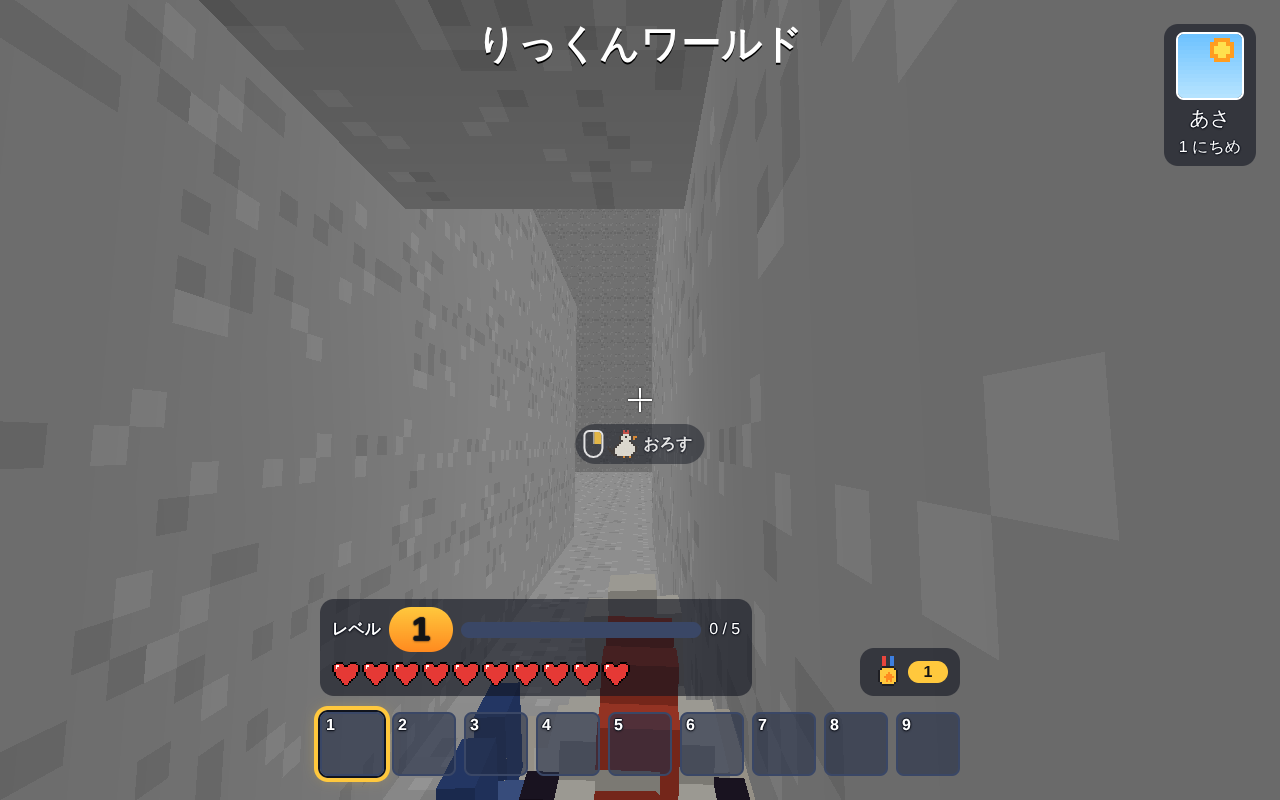
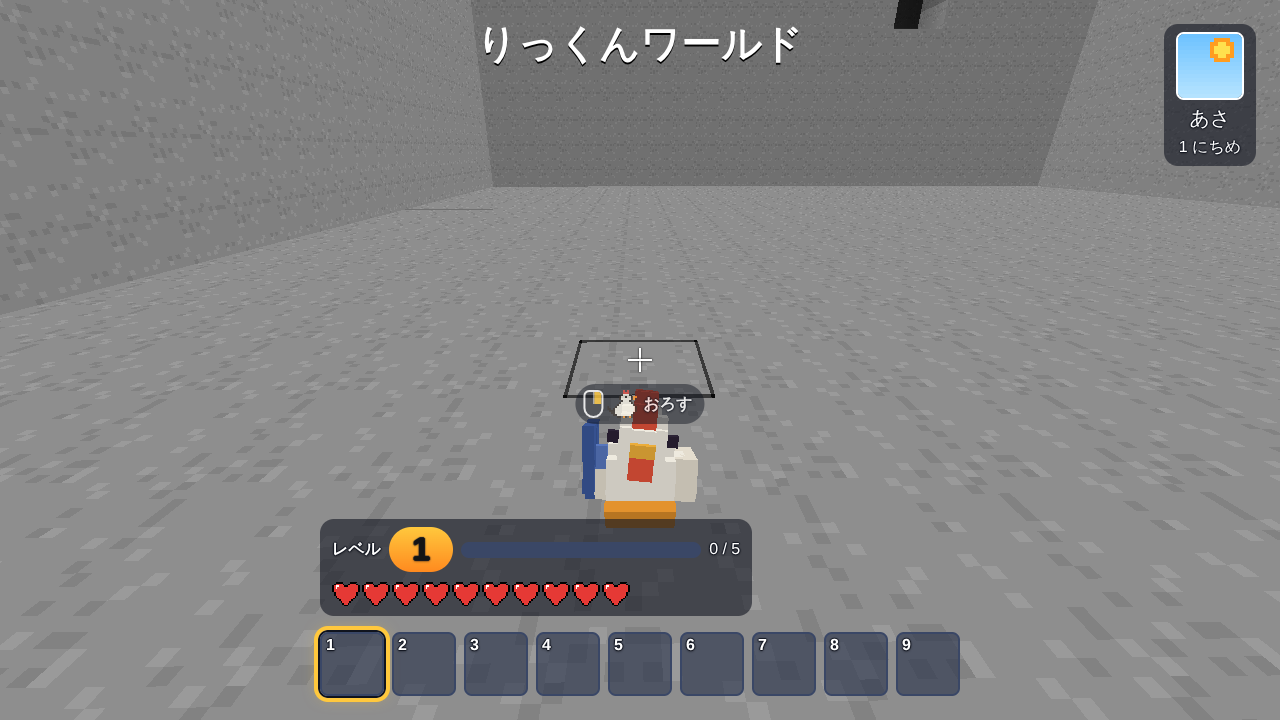
LIVE-1 版3.2: だっこ の 見え方 を 直す（1人称は ステータス板 の 上・だっこ中 は 左の 案内 なし・3人称は 横・上 に 出す）
Claude-Session: https://claude.ai/code/session_01VZt9Ej7aRghosAFkVdwAwt

diff --git a/src/animals/models/AnimalRenderer.ts b/src/animals/models/AnimalRenderer.ts
@@ -243,12 +243,16 @@ export const CARRY = {
   /** にわとり の 高さ（ブロック。コーム まで） */
   height: 0.8,
   /** 1 人称: カメラ から の 前 の 距離 */
-  front: 0.75,
+  front: 1.2,
   /** 1 人称: にわとり の 上の はし が 来る 画面 の 高さ（ndc。−1 = 下の はし。−0.5 = 下 25% の さかい） */
-  topNdc: -0.56,
+  topNdc: -0.1,
+  /** 1 人称: だっこ中 の 大きさ（ステータス板 の 上 に おさまる ように 小さめ） */
+  firstScale: 0.45,
   /** 3 人称: 胸 の 高さ・前 への 出し */
-  chestY: 0.7,
-  chestFront: 0.5,
+  chestY: 1.0,
+  chestFront: 0.3,
+  /** 3 人称: カメラ から 見て 右 へ（プレイヤー の かげ に ならない） */
+  chestSide: 0.8,
   /** プレイヤー の 目 の 高さ（足もと から） */
   eyeY: 1.6,
   /** カメラ が この 距離 より 近ければ 1 人称（`DOLL_HIDE_DISTANCE`） */
@@ -264,6 +268,8 @@ export interface CarryInfo {
   z: number;
   /** 上の はし の 画面 の 高さ（ndc。−1 = 下の はし） */
   topNdcY: number;
+  /** 下の はし の 画面 の 高さ（ndc） */
+  bottomNdcY: number;
   /** まん中 の 画面 の よこ（ndc） */
   centerNdcX: number;
   /** にわとり の 前（−z）と カメラ の ほう の 向きの 内積（1 = まっすぐ カメラ を 向く） */
@@ -476,12 +482,12 @@ export class AnimalRenderer {
       const d = Math.hypot(cam.x - feet.x, cam.y - (feet.y + CARRY.eyeY), cam.z - feet.z);
       first = d < CARRY.firstPersonDist;
     }
-    e.root.scale.setScalar(CARRY.scale);
+    e.root.scale.setScalar(first ? CARRY.firstScale : CARRY.scale);
     if (first) {
       const fov = camera instanceof THREE.PerspectiveCamera ? camera.fov : 75;
       const tanHalf = Math.tan((fov * D) / 2);
       const topY = CARRY.topNdc * CARRY.front * tanHalf;
-      this.v2.set(0, topY - CARRY.height * CARRY.scale, -CARRY.front).applyMatrix4(camera.matrixWorld);
+      this.v2.set(0, topY - CARRY.height * CARRY.firstScale, -CARRY.front).applyMatrix4(camera.matrixWorld);
       e.root.position.copy(this.v2);
       camera.getWorldQuaternion(this.tmpQ);
       e.root.quaternion.copy(this.tmpQ).multiply(this.flipY); // 顔（−z）が カメラ の ほう
@@ -496,8 +502,9 @@ export class AnimalRenderer {
         fx /= len;
         fz /= len;
       }
-      const px = feet!.x + fx * CARRY.chestFront;
-      const pz = feet!.z + fz * CARRY.chestFront;
+      // カメラ から 見て 右（fx,fz を 左 へ 90 度 まわした むき の 反対）
+      const px = feet!.x + fx * CARRY.chestFront - fz * CARRY.chestSide;
+      const pz = feet!.z + fz * CARRY.chestFront + fx * CARRY.chestSide;
       e.root.position.set(px, feet!.y + CARRY.chestY, pz);
       e.root.rotation.set(0, Math.atan2(-(cam.x - px), -(cam.z - pz)), 0); // 顔 が カメラ の ほう
     }
@@ -506,10 +513,12 @@ export class AnimalRenderer {
 
   private measureCarry(e: Entry, camera: THREE.Camera): void {
     const pos = e.root.position;
-    const h = CARRY.height * CARRY.scale;
+    const h = CARRY.height * e.root.scale.y;
     const camPos = camera.getWorldPosition(this.v1);
     this.v2.set(0, h, 0).applyMatrix4(e.root.matrixWorld).project(camera);
     const topNdcY = this.v2.y;
+    this.v2.set(0, 0, 0).applyMatrix4(e.root.matrixWorld).project(camera);
+    const bottomNdcY = this.v2.y;
     this.v2.set(0, h / 2, 0).applyMatrix4(e.root.matrixWorld).project(camera);
     const centerNdcX = this.v2.x;
     // 前（−z）の 向き と カメラ への 向き
@@ -519,7 +528,7 @@ export class AnimalRenderer {
       const feet = this.o.player!();
       return !feet || Math.hypot(camPos.x - feet.x, camPos.y - (feet.y + CARRY.eyeY), camPos.z - feet.z) < CARRY.firstPersonDist;
     })() : true;
-    this.carry = { firstPerson, x: pos.x, y: pos.y, z: pos.z, topNdcY, centerNdcX, faceToCamera: this.v2.dot(this.v3) };
+    this.carry = { firstPerson, x: pos.x, y: pos.y, z: pos.z, topNdcY, bottomNdcY, centerNdcX, faceToCamera: this.v2.dot(this.v3) };
   }
 
   /** だっこ して いる にわとり の 置き場所（なければ null。テスト・UI 検査用） */

diff --git a/src/animals/models/AnimalRendererV32.test.ts b/src/animals/models/AnimalRendererV32.test.ts
@@ -128,8 +128,10 @@ describe('AC28 だっこ の 形（1 人称）', () => {
     const c = r.carryInfo();
     expect(c).not.toBeNull();
     expect(c!.firstPerson).toBe(true);
-    expect(c!.topNdcY).toBeLessThanOrEqual(-0.5);
-    expect(c!.topNdcY).toBeGreaterThan(-1);
+    // 3.2: ステータス板（上の はし ndc −0.4975）より 上に 出す（顔 が 見える）。照準（0）には かぶらない
+    expect(c!.topNdcY).toBeLessThanOrEqual(-0.08);
+    expect(c!.topNdcY).toBeGreaterThan(-0.4);
+    expect(c!.bottomNdcY).toBeGreaterThanOrEqual(-0.5);
     expect(Math.abs(c!.centerNdcX)).toBeLessThan(0.1);
     // 照準から 40px（1280×800 で ndc 0.0625・0.1）より 遠い: 上の はしが 下 25% より 下
     expect(c!.faceToCamera).toBeGreaterThan(0.7); // にわとりの 前（−z）と カメラへ の 向きの 内積
@@ -155,6 +157,14 @@ describe('AC28 だっこ の 形（1 人称）', () => {
     expect(c.y).toBeGreaterThan(9.3);
     expect(c.y).toBeLessThan(10.2);
     expect(Math.hypot(c.x, c.z)).toBeLessThan(1);
+  });
+  it('3 人称: プレイヤー の かげ に ならない（カメラ から 見て 横 ・ 上 に 出る）', () => {
+    const { r, cam } = setup({ player: () => ({ x: 0, y: 9, z: 0 }) });
+    r.update([carriedView({ z: 0 })], cam);
+    const c = r.carryInfo()!;
+    // カメラ（0, ?, 6 あたり）から プレイヤー を 見た とき、にわとり が プレイヤー（ndc x 0）から はなれて 見える
+    expect(Math.abs(c.centerNdcX)).toBeGreaterThan(0.08);
+    expect(c.y).toBeGreaterThan(9.8);
   });
   it('おろす と ふつう の 大きさ・かげ が もどる', () => {
     const { fx, r, cam } = setup({ player: () => ({ x: 0, y: 9, z: 6 }) });

diff --git a/src/main.ts b/src/main.ts
@@ -1655,7 +1655,7 @@ game.onUpdate((dt) => {
   // 持ち物・メニューを開いている間は 名前を出さない
   yokaiNameplates.update(screen.mode() === 'play' ? yokaiM.nameplates(plateBuf) : NO_PLATES, game.camera);
   staggerIcons.update(yokaiM.staggerIcons(stagIconBuf), game.camera, screen.mode() === 'play');
-  actionHint.update(hintVisible() ? actionHintLines(dig.previewRightClick(), dig.previewLeftClick(), { carryProgress: dig.carryProgress(), held: tools.current().item, heldIsPickaxe: tools.current().kind === 'pickaxe', heldIsBlade: tools.current().kind === 'blade' }) : {});
+  actionHint.update(hintVisible() ? actionHintLines(dig.previewRightClick(), dig.previewLeftClick(), { carryProgress: dig.carryProgress(), carrying: animals.carrying() !== null, held: tools.current().item, heldIsPickaxe: tools.current().kind === 'pickaxe', heldIsBlade: tools.current().kind === 'blade' }) : {});
   farmHint.step();
   {
     // 農業の合図: 出ていない状態から 出たとき 1 件（見た目の文は ふりがなを 読みに直す）

diff --git a/src/ui/actionHintModel.ts b/src/ui/actionHintModel.ts
@@ -27,6 +27,8 @@ export interface ActionHintCtx {
   heldIsBlade: boolean;
   /** 版 3.2: `DigSystem.carryProgress()`（0 = わ なし） */
   carryProgress?: number;
+  /** 版 3.2: だっこ中（左クリック は 止まって いる ので 左の 案内 を 出さない） */
+  carrying?: boolean;
 }
 
 /**
@@ -108,6 +110,7 @@ export function actionHintLines(right: RightClickPreview | null, left: LeftClick
     out.right = { icon: 'carry', word: 'だっこ' };
     out.progress = Math.min(1, c.carryProgress);
   }
+  if (c.carrying) return out;
   // 刀を 持っているとき: ほる・わざ も「きる」に そろえる（オーナー決定）
   if (c.heldIsBlade && c.held && (left === 'dig' || left === 'hit')) out.left = { icon: c.held, word: 'きる' };
   else if (left === 'dig') out.left = { icon: c.held && c.heldIsPickaxe ? c.held : 'wood_pickaxe', word: 'ほる' };

diff --git a/src/ui/live1ui.test.ts b/src/ui/live1ui.test.ts
@@ -46,3 +46,14 @@ describe('LIVE-1 小さな 絵', () => {
     expect(animalIconPixels('chickenRibbon').some(blue)).toBe(true);
   });
 });
+
+describe('版 3.2: だっこ中は 左の 案内 を 出さない', () => {
+  it('carrying の とき left は 無し・right（おろす）は のこる', async () => {
+    const { actionHintLines } = await import('./actionHintModel');
+    const ctx = { held: null, heldIsPickaxe: false, heldIsBlade: false, carrying: true };
+    const h = actionHintLines({ kind: 'putDown' } as never, 'dig', ctx);
+    expect(h.left).toBeUndefined();
+    expect(h.right?.word).toBe('おろす');
+    expect(actionHintLines(null, 'dig', { ...ctx, carrying: false }).left?.word).toBe('ほる');
+  });
+});
